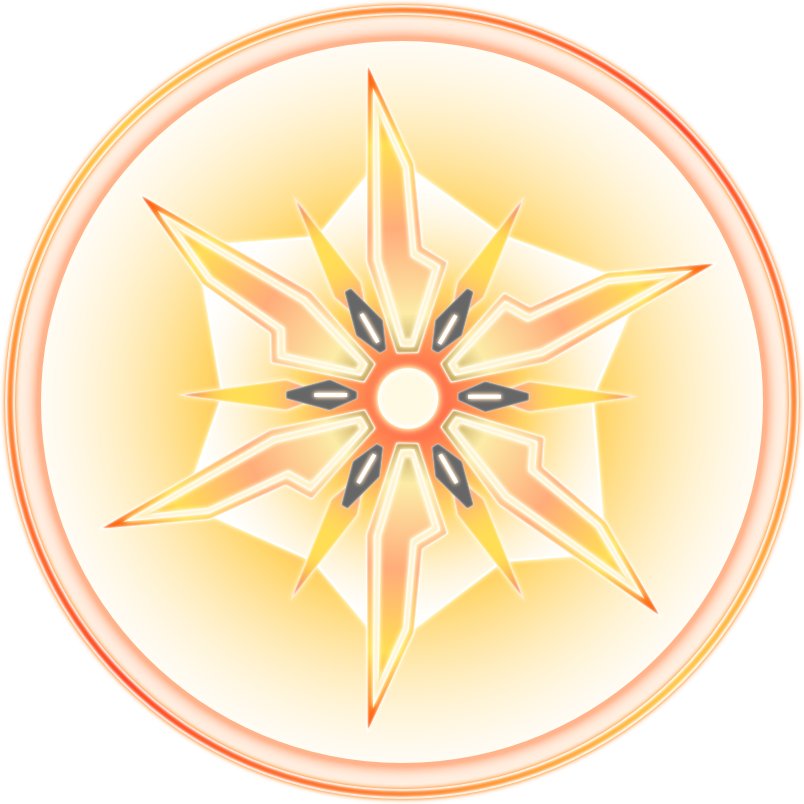
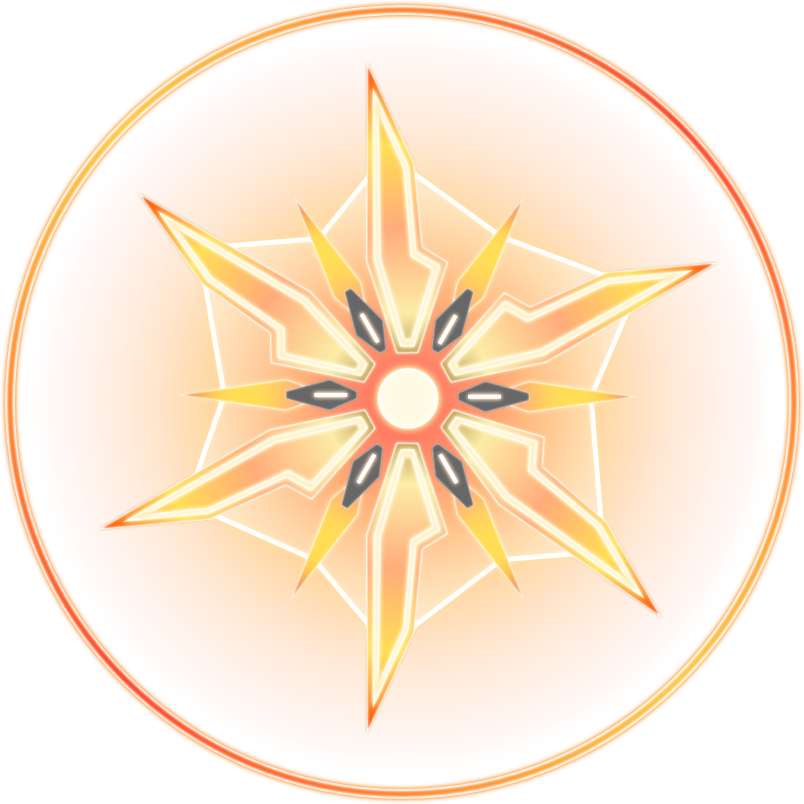
Image Update

diff --git a/index.html b/index.html
@@ -5,7 +5,7 @@
     <meta name="viewport" content="width=device-width, initial-scale=1.0, maximum-scale=1.0, user-scalable=no">
     <meta name="apple-mobile-web-app-capable" content="yes">
     <meta name="apple-mobile-web-app-status-bar-style" content="black-translucent">
-    <title>CLP 問答競速: 食物碳排放對決</title>
+    <title>CLP 智能電網: 零碳電網極限賽</title>
     <script src="https://cdn.socket.io/4.7.2/socket.io.min.js"></script>
     <style>
         :root { --bg: #0f0f0f; --accent: #007bff; --card-bg: rgba(255,255,255,0.05); }